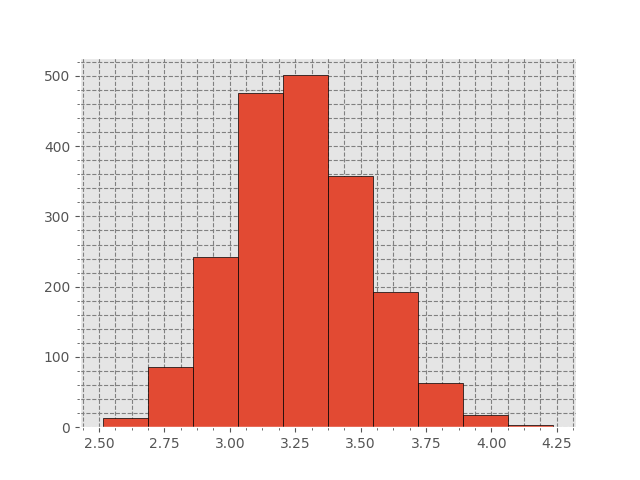
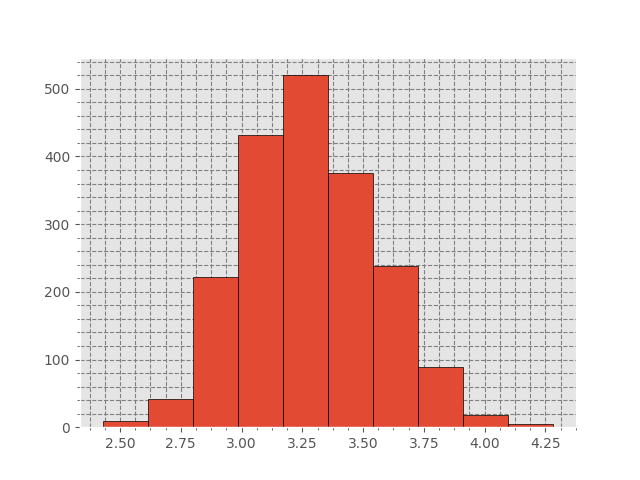
finished exp2

diff --git a/experiment2.py b/experiment2.py
@@ -64,21 +64,6 @@ if __name__ == '__main__':
     strmsM = pm.MCMC(storms_model)
     strmsM.sample(iter=40000, burn=1000, thin=20)
 
-    plt.hist(strmsM.trace('late_mean')[:], edgecolor="k")
-    general.set_grid_to_plot()
-    plt.savefig(general.folderPath2 + "exp2_late_mean.png")
-    plt.clf()
-
-    plt.hist(strmsM.trace('early_mean')[:], edgecolor="k")
-    general.set_grid_to_plot()
-    plt.savefig(general.folderPath2 + "exp2_early_mean.png")
-    plt.clf()
-
-    plt.hist(strmsM.trace('switchpoint')[:], edgecolor="k")
-    general.set_grid_to_plot()
-    plt.savefig(general.folderPath2 + "exp2_switchpoint.png")
-    plt.clf()
-
     switchpoint_samples = strmsM.trace('switchpoint')[:]
     early_mean_samples = strmsM.trace('early_mean')[:]
     late_mean_samples = strmsM.trace('late_mean')[:]
@@ -87,7 +72,7 @@ if __name__ == '__main__':
     figsize(12.5, 8)
     # histogram of the samples:
     fig = plt.figure()
-    fig.subplots_adjust(bottom=-0.05)
+    fig.subplots_adjust(bottom=0.07)
     n_mths = len(stormsNumbers)
     ax = plt.subplot(311)
     ax.set_autoscaley_on(False)
@@ -100,9 +85,8 @@ if __name__ == '__main__':
     plt.title(r"""Posterior distributions of the variables $e, l, s$""",
               fontsize=16)
 
-    plt.xlim([40, 120])
-    plt.ylim([0, 0.6])
-    plt.xlabel("$e$ value", fontsize=14)
+    plt.xlim([2, 12])
+    plt.ylim([0, 1.7])
     ax = plt.subplot(312)
     ax.set_autoscaley_on(False)
     plt.hist(late_mean_samples,
@@ -110,19 +94,20 @@ if __name__ == '__main__':
              color="purple", normed=True)
 
     plt.legend(loc="upper left")
-    plt.xlim([40, 120])
-    plt.ylim([0, 0.6])
-    plt.xlabel("$l$ value", fontsize=14)
+    plt.xlim([2, 12])
+    plt.ylim([0, 1.1])
     plt.subplot(313)
 
     w = 1.0 / switchpoint_samples.shape[0] * np.ones_like(switchpoint_samples)
     plt.hist(switchpoint_samples, bins=range(0, n_mths),
              alpha=1, label=r"posterior of $s$", color="green",
-             weights=w, rwidth=2.)
+             weights=w, rwidth=2., edgecolor="k")
     plt.xlim([20, n_mths - 20])
 
-    plt.xlabel(r"$s$ (in days)", fontsize = 14)
+    plt.xlabel(r"$s$ (in days)", fontsize=14)
     plt.ylabel("probability")
     plt.legend(loc="upper left")
     plt.savefig(general.folderPath2 + "exp2_posterior_distributions.png")
     plt.clf()
+
+    pm.Matplot.plot(strmsM)
